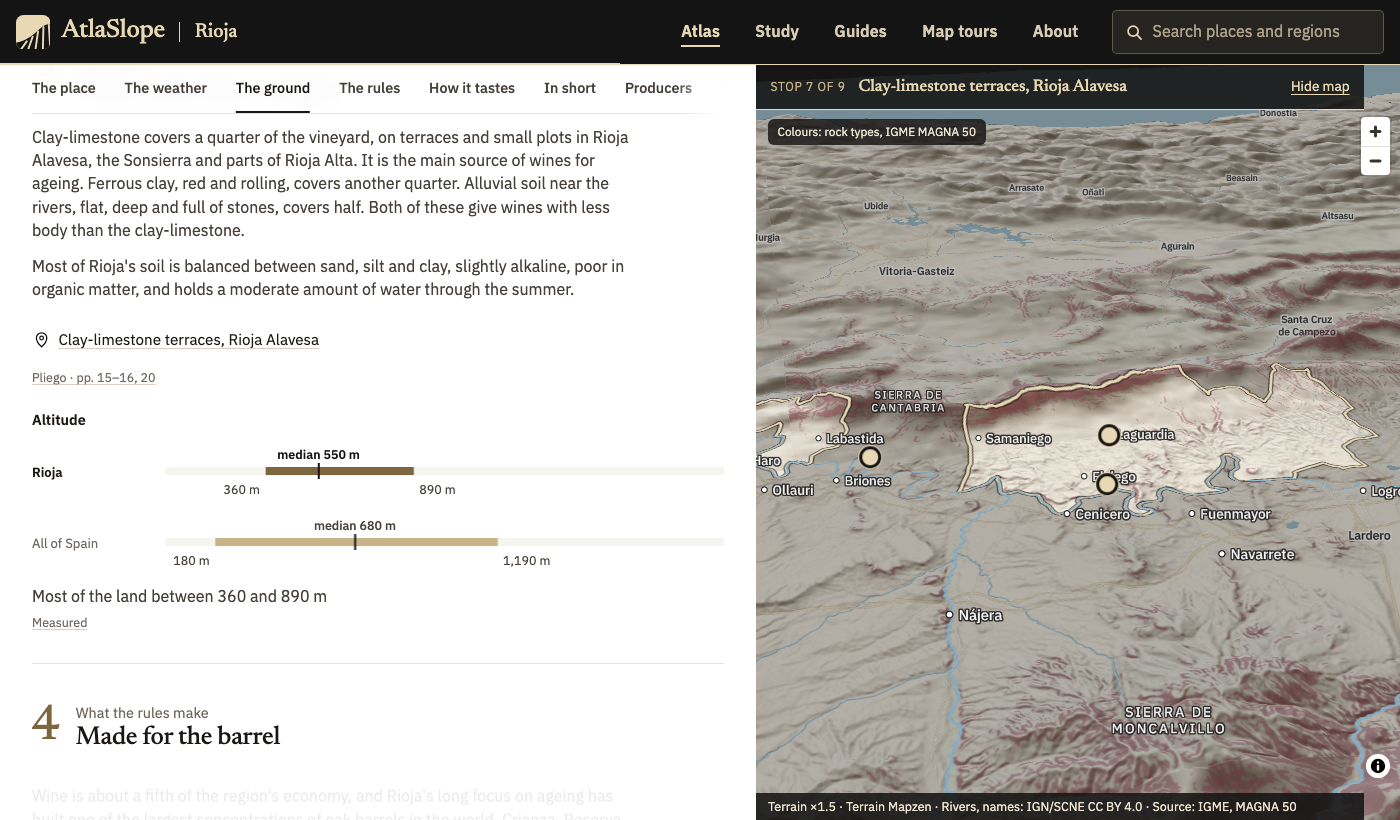
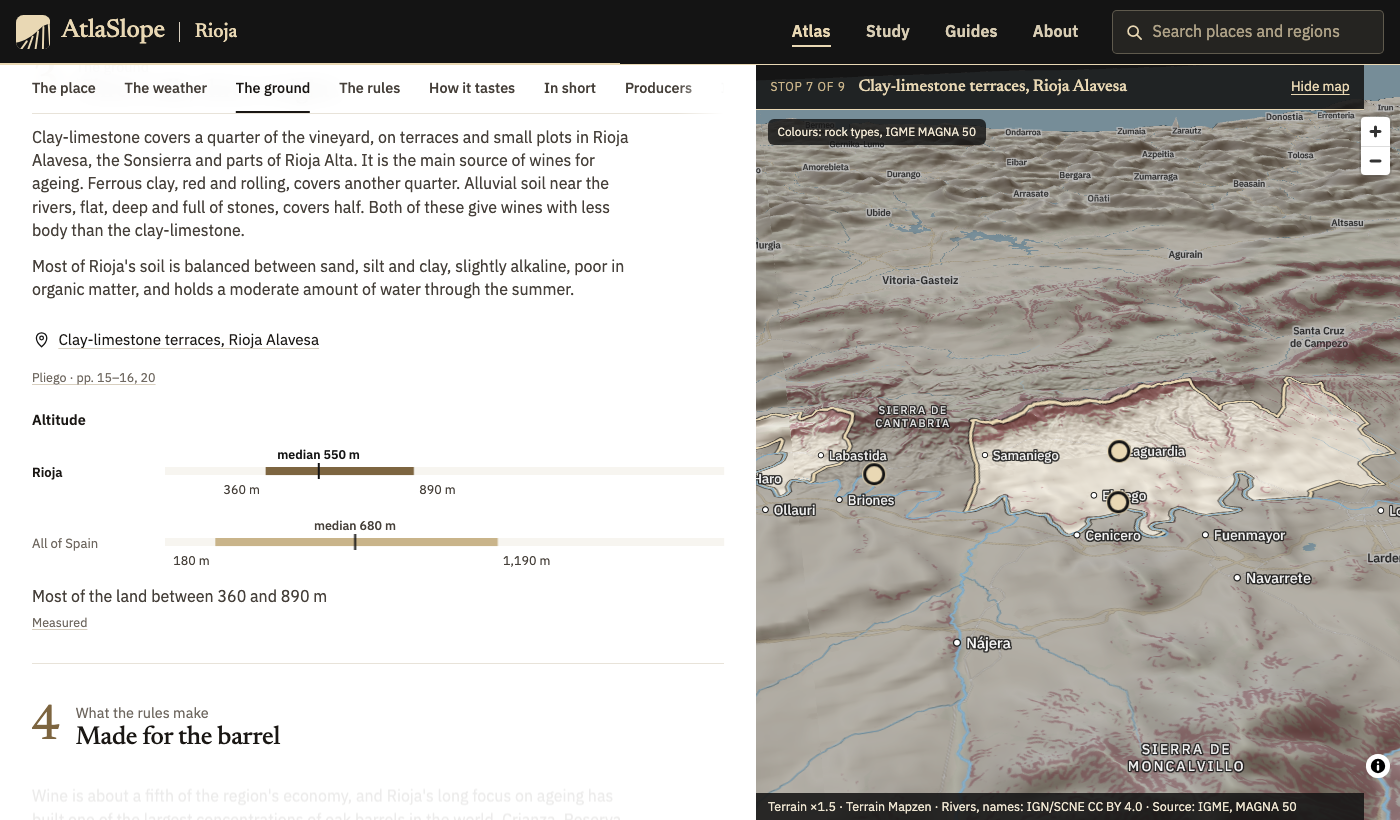
Phone strip: legend counted at the top, one scrolling line, one-line credit; build 2 shots

diff --git a/src/story/storyMap.ts b/src/story/storyMap.ts
@@ -116,10 +116,9 @@ export function createStoryMap(container: HTMLElement, story: Story, start: Cam,
   function padding() {
     const r = container.getBoundingClientRect();
     const p = Math.round(Math.min(r.width, r.height) * 0.1);
-    // The credit bar (and on a phone the legend line above it) covers the foot of the map: keep the stop's dot clear of them.
+    // The credit bar covers the foot of the map and the legend line sits at the top, under the stop bar: keep the stop's dot clear of both.
     const bar = (cls: string) => { const e = container.parentElement?.querySelector<HTMLElement>(cls); return e && !e.hidden ? e.offsetHeight : 0; };
-    const foot = bar('.story-credit') + bar('.story-legend');
-    return { top: p + 40, bottom: p + Math.max(30, foot + 12), left: p, right: p + 30 };
+    return { top: p + 40 + bar('.story-legend'), bottom: p + Math.max(30, bar('.story-credit') + 12), left: p, right: p + 30 };
   }
 
   /** The target as a camera; null for a place's bounds before the shapes are in. */

diff --git a/src/story/story.css b/src/story/story.css
@@ -69,7 +69,7 @@
 .story-factpop .maplibregl-popup-close-button:focus-visible{outline:2px solid #fff}
 @media (max-width:61rem){
   /* Under the chip, clear of the locator and the credit; full class names, wrapping to a second line. */
-  .story-legend{top:3.1rem;left:.75rem;right:3rem;max-width:none;white-space:normal;font-size:.66rem}
+  .story-legend{top:3.1rem;left:.75rem;right:.75rem;max-width:none;white-space:nowrap;overflow-x:auto;scrollbar-width:none;font-size:.66rem}
   .story-legend span{margin-left:0;margin-right:.55rem}
 }
-@media (max-width:61rem){.story-credit{font-size:.66rem}.story-credit .long{display:none}.story-credit .short{display:inline}}
+@media (max-width:61rem){.story-credit{font-size:.6rem;white-space:nowrap;overflow:hidden;padding:.3rem .5rem}.story-credit .long{display:none}.story-credit .short{display:inline}}

diff --git a/Review/mock-tour-in-guide/build-2-report.md b/Review/mock-tour-in-guide/build-2-report.md
@@ -3,3 +3,4 @@
 In progress.
 
 ## Commits
+- Commits 1-2: fold map tours into Guides and climate names; vitest 378 pass in 1.9 s
